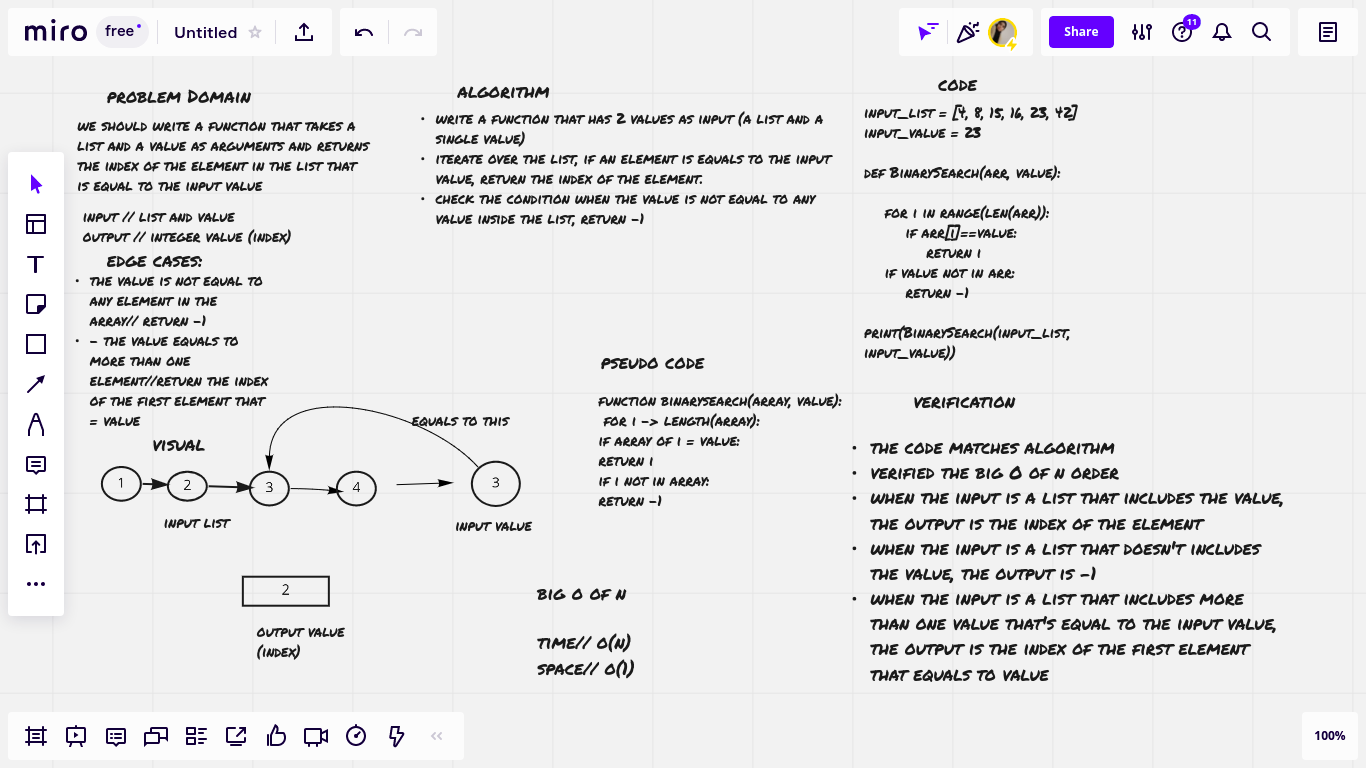
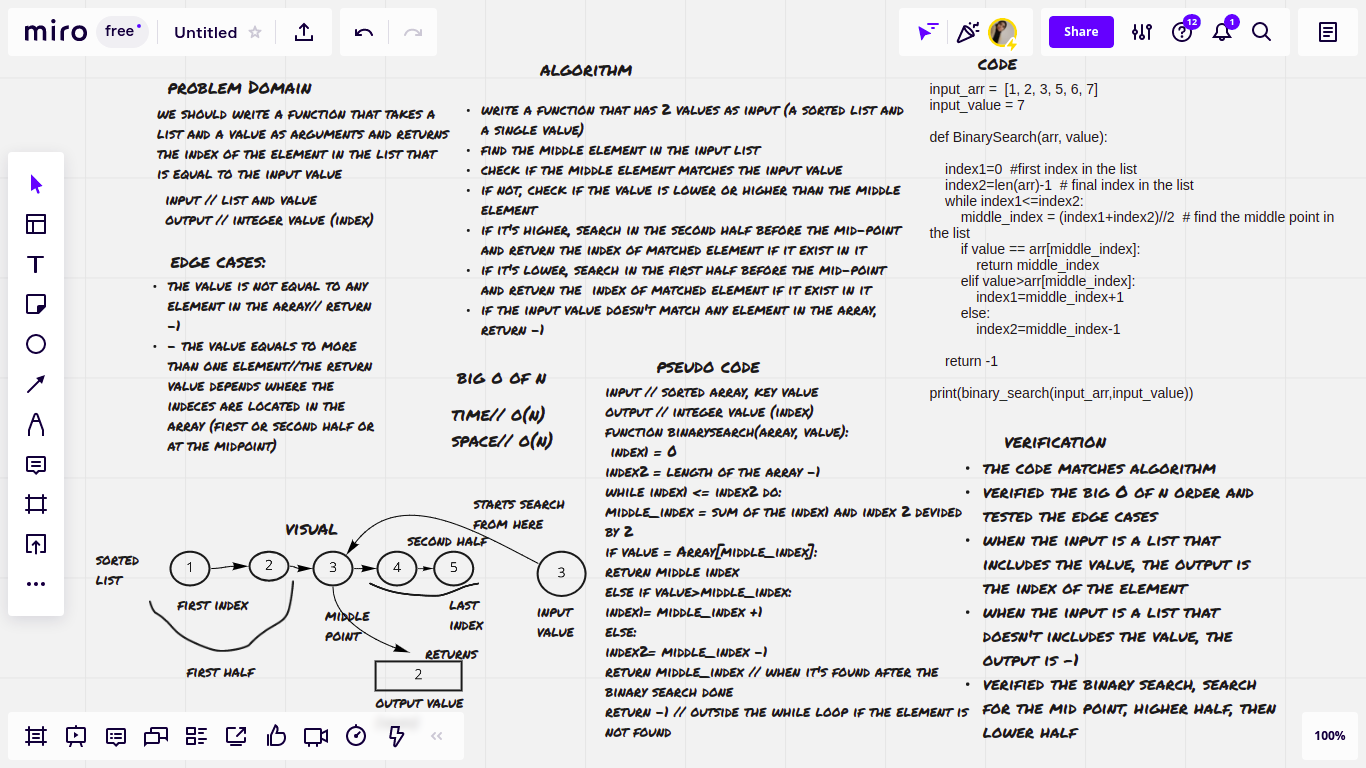
edit the solution to solve the code with the binary search method

diff --git a/python/code_challenges/array-binary-search/README.md b/python/code_challenges/array-binary-search/README.md
@@ -1,6 +1,6 @@
 # Binary Search of Sorted Array
 
-his challenge is written with a function that takes a list and a value as arguments and returns the index of the element that equals to the input value, it returns -1 if there is no element equal to this value
+his challenge is written with a function that takes a sorted list and a value as arguments and returns the index of the element that equals to the input value, it returns -1 if there is no element equal to this value, it uses binary search method to access this index
 
 ## Whiteboard Process
 
@@ -8,7 +8,7 @@ his challenge is written with a function that takes a list and a value as argume
 
 ## Approach & Efficiency
 
-- I tried to get the best solution of the problem by checking the edge cases and approaching the solution that would take the minimum time and space, I analyzed the input and their relation to the output and tried to write an algorithm depending on that
+- I used the binary search method to get the least number steps to find the index, i tested the edge cases and drew a visual to understand the idea, I wrote an algorithm that would match the code. I checked the big O of n and tried to approach methods that would take the least possible time and memory
 - big O of n for time // O(n) -> Linear
-  big O of n for space // O(1) -> constant
+  big O of n for space // O(n) -> linear
 
